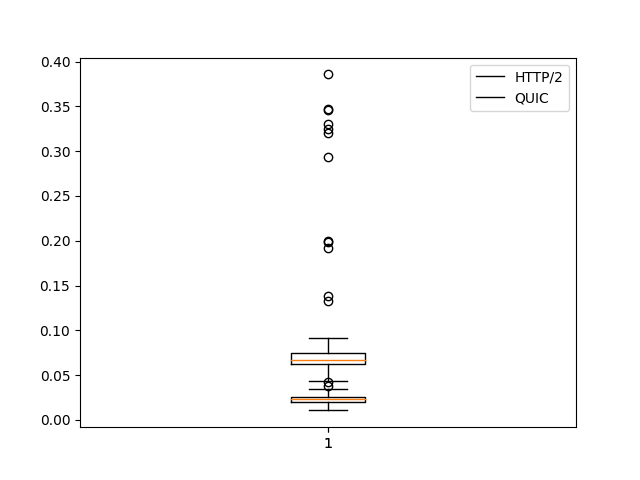
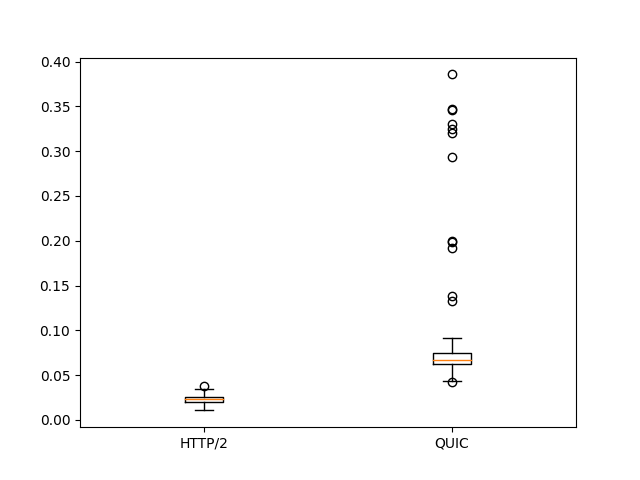
1

diff --git a/task1/task1.py b/task1/task1.py
@@ -10,7 +10,6 @@ for idx in range(1, 100):
       start = ts
     end = ts
   http2LoadingTime.append(end - start)
-bp1 = plt.boxplot(http2LoadingTime, positions=['HTTP/2'])
 
 quic2LoadingTime = []
 for idx in range(1, 100):
@@ -21,7 +20,9 @@ for idx in range(1, 100):
       start = ts
     end = ts
   quic2LoadingTime.append(end - start)
-bp2 = plt.boxplot(quic2LoadingTime, positions=['QUIC'])
+
+plt.boxplot([http2LoadingTime, quic2LoadingTime])
+plt.xticks([1, 2],['HTTP/2', 'QUIC'])
 
 plt.show()
 plt.savefig('task1.png')
